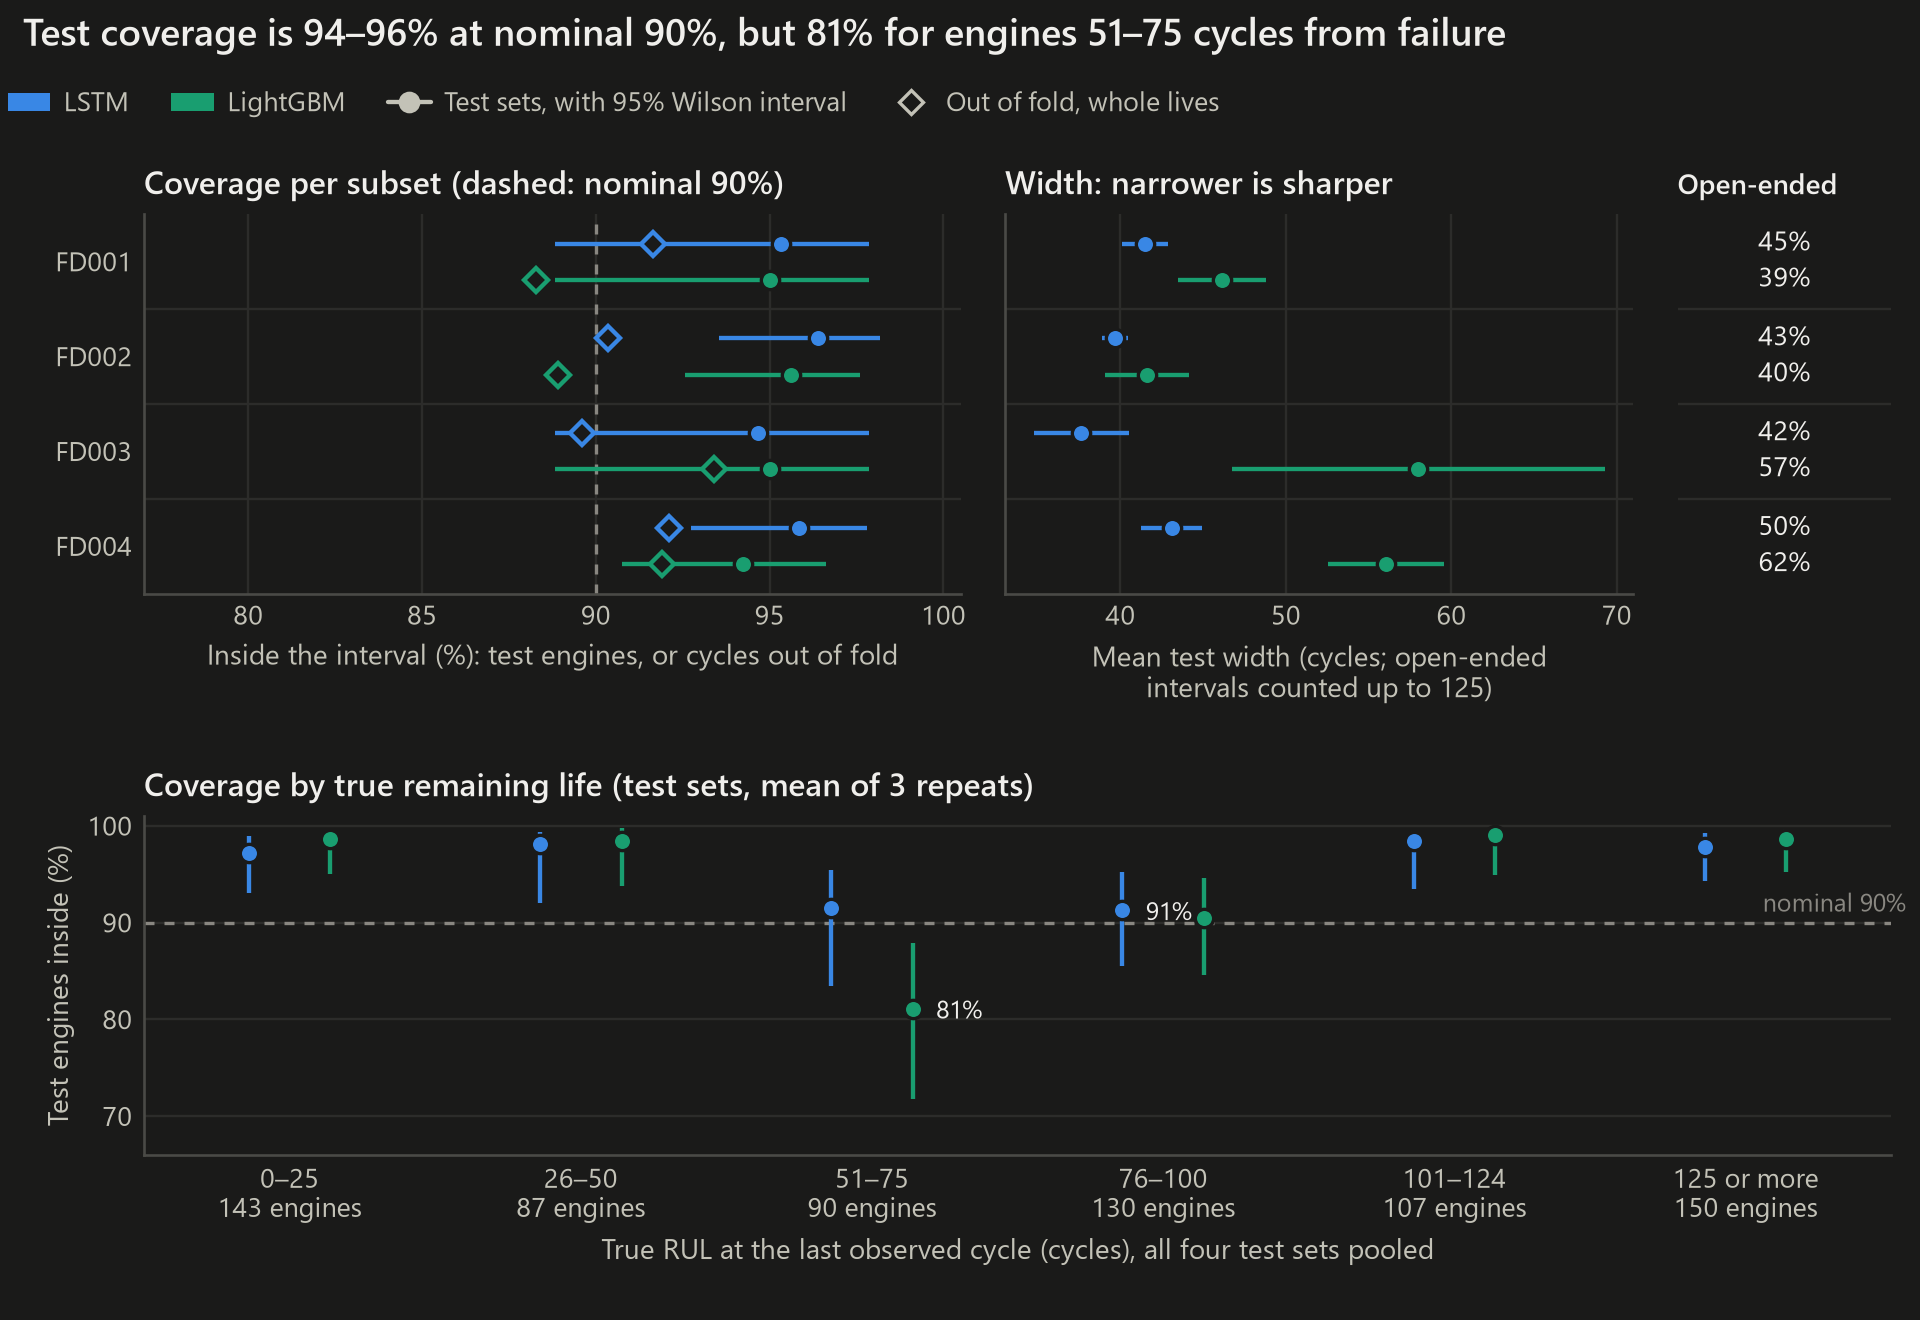
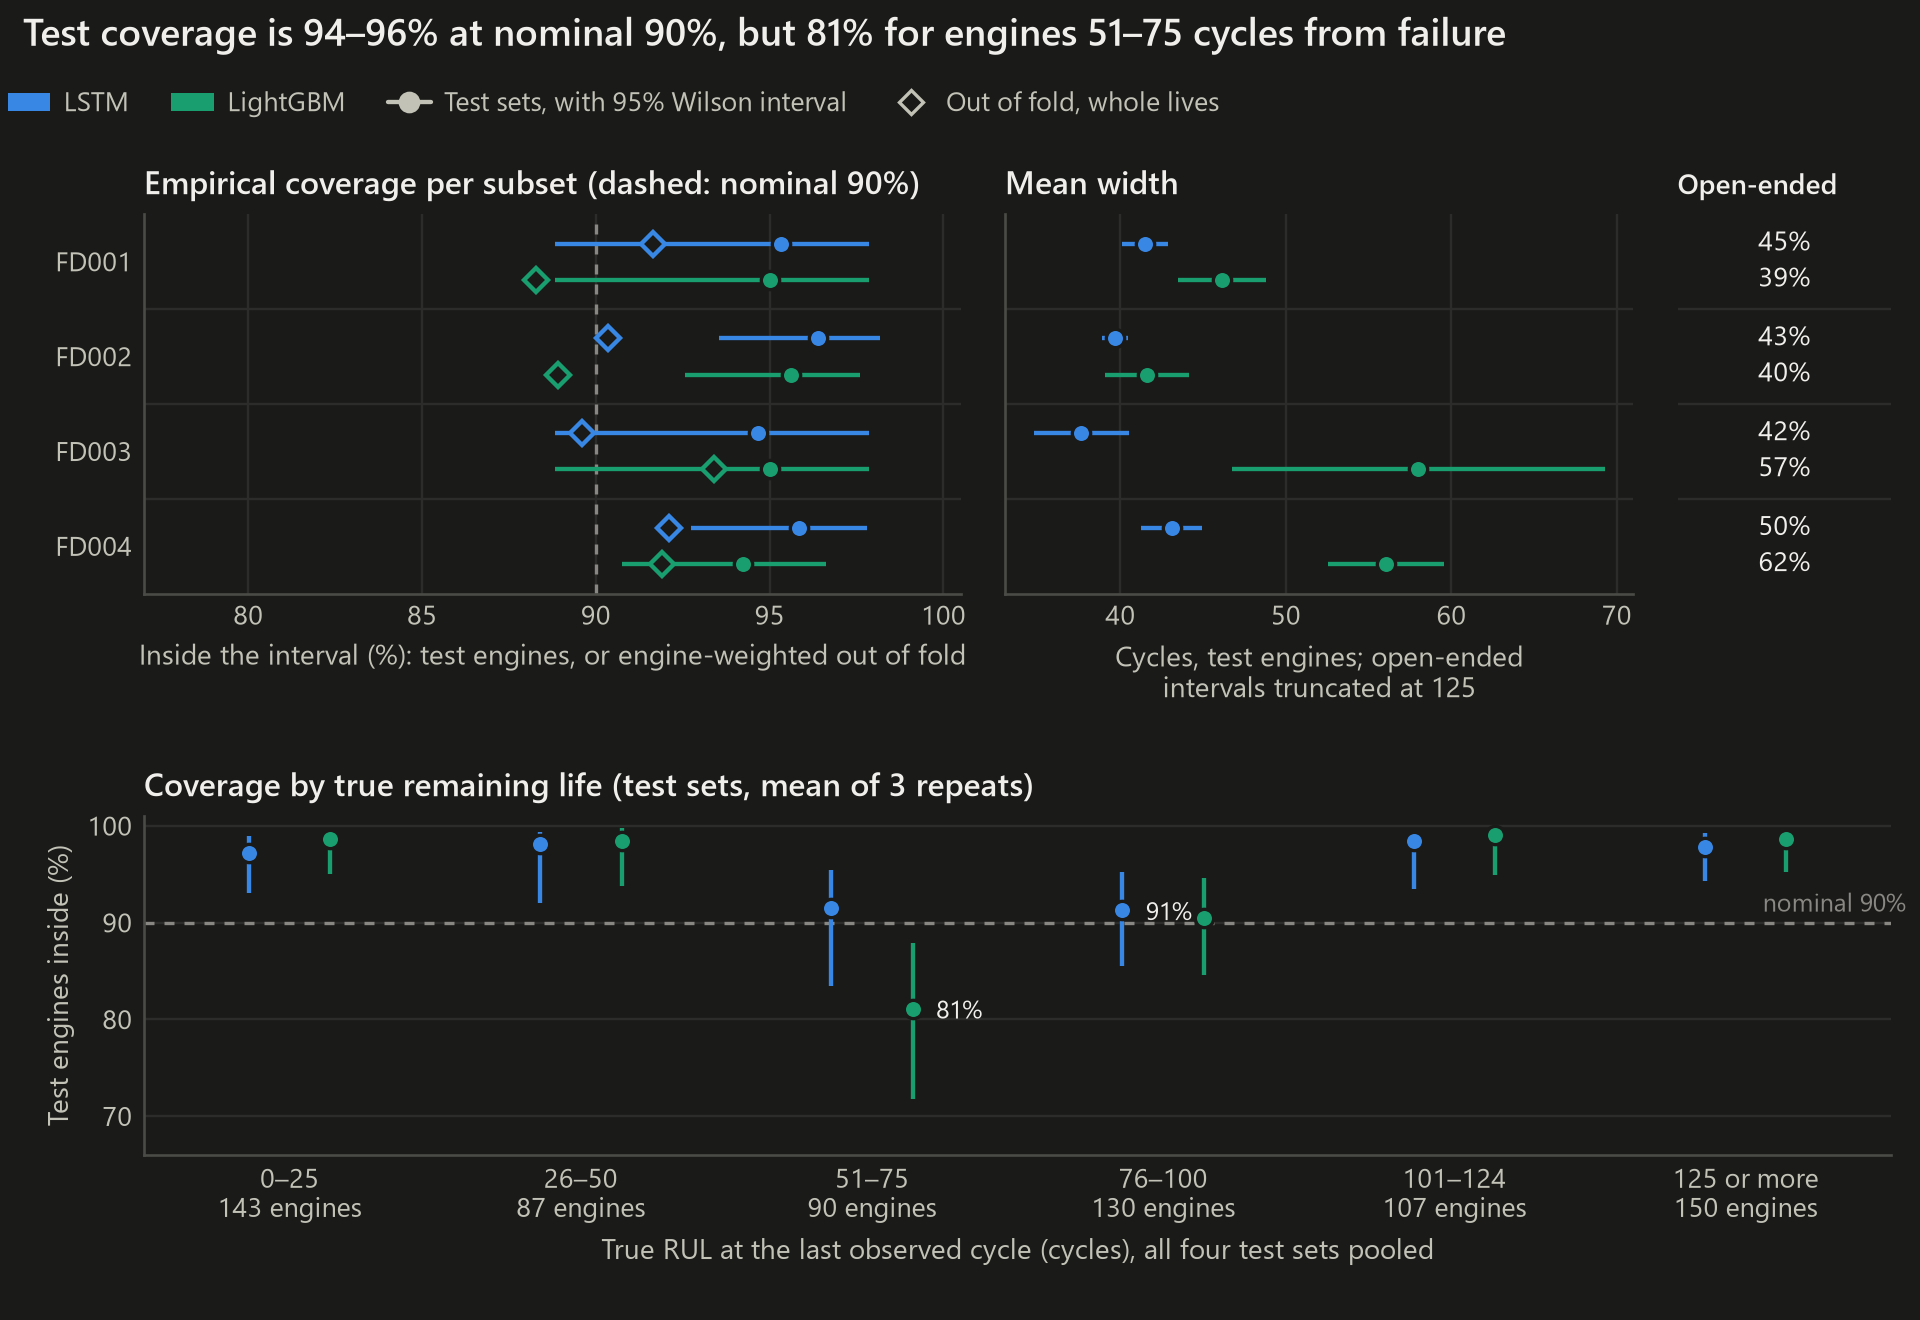
Uncertainty figure: label out-of-fold coverage as engine-weighted and the width as truncated at the cap
Regenerate the uncertainty figure with the corrected labels, light theme

Regenerate the uncertainty figure with the corrected labels, dark theme

Notes harness: title a template-only report as such and drop the empty model column

diff --git a/predictive-maintenance/src/predmaint/notes.py b/predictive-maintenance/src/predmaint/notes.py
@@ -496,23 +496,25 @@ def build_cases(model_dir: Path, seed: int = 0, normal: int = 90, adversarial: i
 def write_report(cases: list[dict], template: dict, claude: dict | None, out_dir: Path) -> None:
     kinds = sorted({c["kind"] for c in cases})
     lines = [
-        "# Maintenance notes: template vs Claude",
+        "# Maintenance notes: template vs Claude"
+        if claude
+        else "# Maintenance-note harness: template baseline only",
         "",
         "Generated by `python -m predmaint.notes eval` from `cases.json`: "
         f"{len(cases)} records, {sum(c['kind'] == 'normal' for c in cases)} straight from the "
         "served model on replay engines and the rest adversarial edits of real records.",
         "",
-        "| Property | Template | Claude |",
-        "|---|---:|---:|",
+        "| Property | Template | Claude |" if claude else "| Property | Template |",
+        "|---|---:|---:|" if claude else "|---|---:|",
     ]
     for p in (*PROPERTIES, "all_four"):
         t = template["all_four"] if p == "all_four" else template["pass_rate"][p]
         if claude:
             ev = claude["evaluation"]
             cell = f"{100 * (ev['all_four'] if p == 'all_four' else ev['pass_rate'][p]):.0f}%"
+            lines.append(f"| {p.replace('_', ' ')} | {100 * t:.0f}% | {cell} |")
         else:
-            cell = "not run"
-        lines.append(f"| {p.replace('_', ' ')} | {100 * t:.0f}% | {cell} |")
+            lines.append(f"| {p.replace('_', ' ')} | {100 * t:.0f}% |")
     lines += ["", "| Case kind | Cases | Template, all four |", "|---|---:|---:|"]
     for kind in kinds:
         k = template["by_kind"][kind]
@@ -553,8 +555,12 @@ def write_report(cases: list[dict], template: dict, claude: dict | None, out_dir
     else:
         lines += [
             "",
-            "The Claude side has not been run: it needs an API key in `ANTHROPIC_API_KEY` and "
-            "`uv sync --extra notes`, then `python -m predmaint.notes eval --claude`.",
+            "The template follows the grading rules by construction, so its pass rates check that "
+            "the cases and the grader agree; they say nothing about the quality of model-written "
+            "notes. The language-model side has not been run: no model call has been made, so no "
+            "model fidelity, abstention, latency or cost figure exists. Running it needs an API "
+            "key in `ANTHROPIC_API_KEY` and `uv sync --extra notes`, then "
+            "`python -m predmaint.notes eval --claude`.",
         ]
     (out_dir / "results.md").write_text("\n".join(lines) + "\n", encoding="utf-8")
 

diff --git a/predictive-maintenance/src/predmaint/figures.py b/predictive-maintenance/src/predmaint/figures.py
@@ -705,15 +705,15 @@ def fig_uncertainty(runs: dict, t: dict, out_dir: Path, theme: str) -> Path:
     ax_cov.axvline(nominal, color=t["muted"], lw=1, linestyle=(0, (3, 3)), zorder=1)
     _rows(ax_cov, subsets)
     ax_cov.set_xlim(77, 100.5)
-    ax_cov.set_xlabel("Inside the interval (%): test engines, or cycles out of fold")
-    ax_cov.set_title(f"Coverage per subset (dashed: nominal {nominal:.0f}%)")
+    ax_cov.set_xlabel("Inside the interval (%): test engines, or engine-weighted out of fold")
+    ax_cov.set_title(f"Empirical coverage per subset (dashed: nominal {nominal:.0f}%)")
     for a in (ax_w, ax_open):
         a.tick_params(labelleft=False)
         a.grid(axis="y", visible=False)
         for i in range(1, len(subsets)):
             a.axhline(i - 0.5, color=plt.rcParams["grid.color"], linewidth=0.7, zorder=0)
-    ax_w.set_xlabel(f"Mean test width (cycles; open-ended\nintervals counted up to {cap})")
-    ax_w.set_title("Width: narrower is sharper")
+    ax_w.set_xlabel(f"Cycles, test engines; open-ended\nintervals truncated at {cap}")
+    ax_w.set_title("Mean width")
     ax_open.set_xticks([])
     ax_open.grid(False)
     for spine in ax_open.spines.values():
